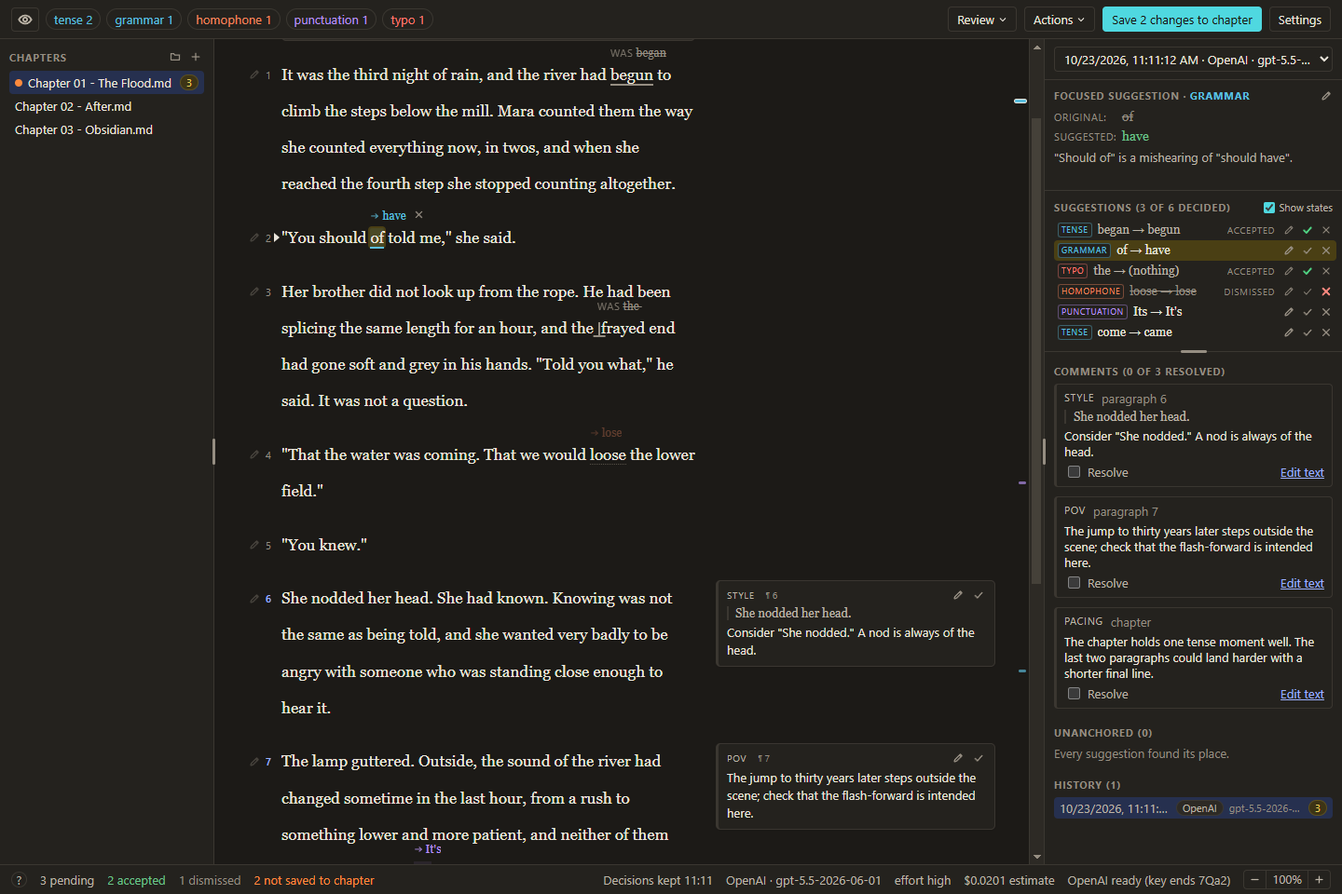
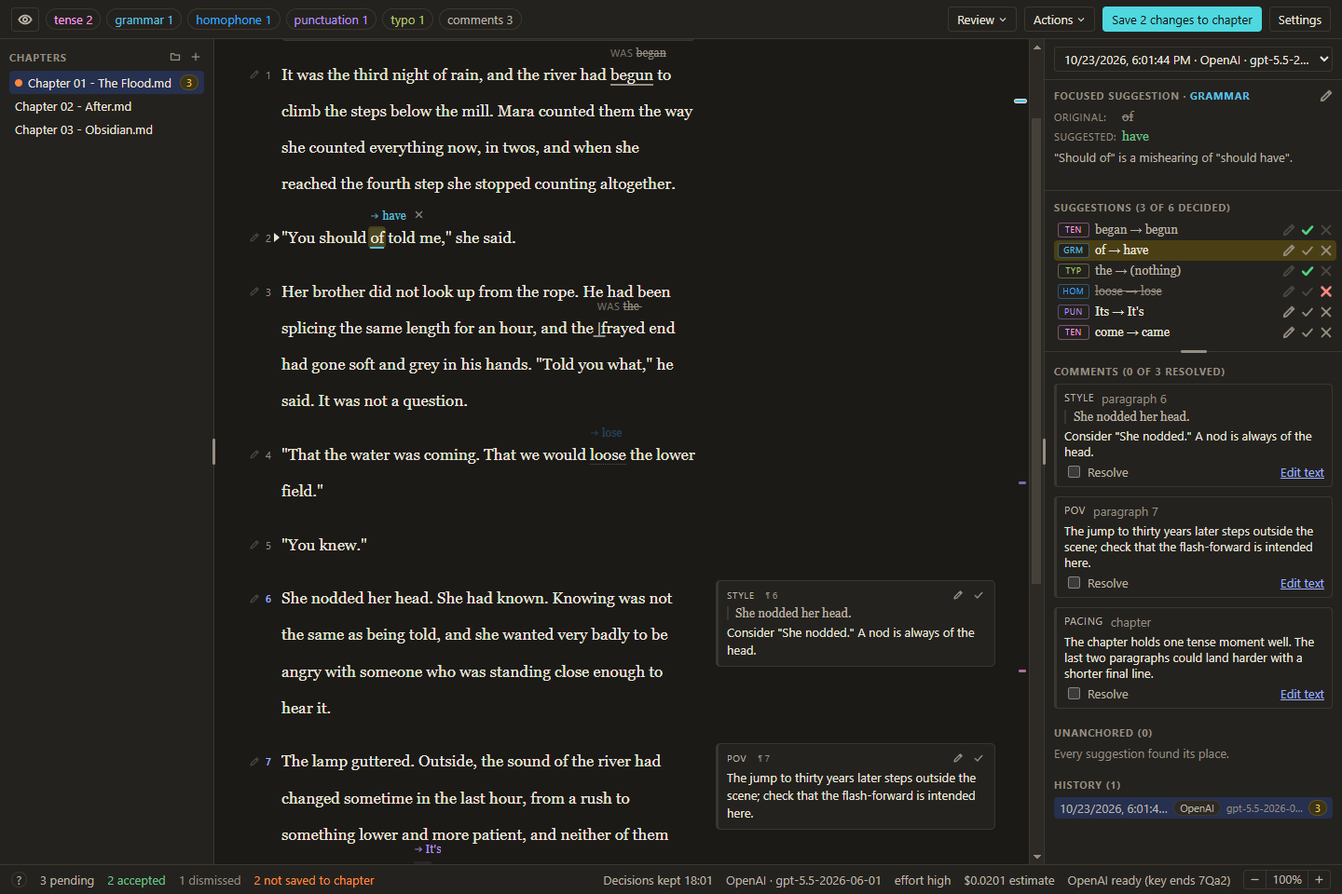
polish.18: the README's review screenshots shot again after polish.13 to polish.17
review.png and review-dark.png, by opensource.13's routine (the mock's
canned review of Chapter 01 in a scratch Novel, 1440 by 960, two accepted
and one dismissed), now show polish.16's category colours, the comments
chip, three-letter tags, the faded row buttons and no Show states or
ACCEPTED and DISMISSED. setup.png is unchanged: Setup shot again matched
it pixel for pixel. The README's captions still hold.

diff --git a/PLAN.md b/PLAN.md
@@ -1114,7 +1114,7 @@ Sitting C (author, about 30 minutes, after M7): `theme.10` (a) approve the conta
 - [x] `polish.15` **The (?) at the far right of every Settings row** (author, 2026-10-23: "can you put the (?) hover things all aligned on the far right? It feels a bit inconsistent that they are all at different horizontal placements on the left"). Each (?) (`HelpTip`, `polish.4`) leaves the row's name and goes to a column of its own at the far right of the row, a last column of `.modal__row` after the buttons, so the eight stand in one vertical line at the right edge of the dialog's box; a row without one (Appearance) keeps the cell, so the columns line up; the (?) keeps its accessible name, "More about <topic>", the row's control keeps its `aria-describedby` on the card, and the tab order follows the markup, so the (?) comes after its row's controls. The card opens below the (?) with its right edge under the (?)'s right edge (an `end` alignment in `placeTooltip` beside `start`, clamped inside the window as today), above it when there is no room below, and stays hidden while the box has scrolled the (?) under the head or the foot. Verify: screenshots in both themes of the dialog at its usual width and in the narrow window where its rows fold (`polish.4`), the eight in one column with their cards open at the right; the keyboard walk; the render tests pin the column and the alignment. CHANGELOG Changed line. (done 2026-10-23; section 7's Settings dialog, which has a new **The (?) column** passage, the card's `end`, the box's height and the key row without its (?) after "(experimental)", 6.5's Finding them and a sentence in C.100's (?) item; 11.3 says nothing of where the (?) stands, so it is unchanged. Each (?) is `HelpTip`'s own cell, `.modal__help`, the fourth and last of every Settings row (`.modal--settings .modal__row`, `150px minmax(0, 1fr) auto 18px`; the other dialogs' rows keep their three columns), after the buttons; a row's name is its first cell alone, `.modal__name` is gone, and the (?) lost its 6 px margin. `placeTooltip` gained `end`, the card's right edge under the anchor's, clamped inside the window as the others are, and `HelpTip` uses it. The CHANGELOG's Unreleased line for `polish.4` said "a small ? beside a row's name" and now says "on the row", beside the new Changed line. The dialog is 654 CSS px tall at 100%, 3 less: the key row's name no longer carries the (?) on its second line. What differs from the text or reads it: the key's field, the row under the key's, keeps an empty cell too, as a row of its own; the narrow window where the rows fold is the smallest one (900 by 600) at 200%, where the box is 394 CSS px wide and the guidelines file's three buttons already wrapped onto two lines; there the reviews folder's Change and Show in folder now wrap as well, since the new column takes 26 px from each row, and its path, 1 px wide there before, has none now, so nothing that showed is lost; at 100% and 125% nothing wraps, in either window. Tests: `end` in `test/shared/ui.test.ts` beside `start` (the right edges lined up, neither the middle nor the start, the clamp at either edge, above when there is no room below); in `test/renderer/settingsDialog.render.test.ts` (14) each of the ten rows has four cells, its name alone in the first and `.modal__help` last, the eight (?) in their order with Appearance's and the key field's cells empty, and the (?) is its row's last control; `test/renderer/helpTip.test.ts` (8) the placing with `end`, the column's 18 px and the base row's three columns, no margin and no `.modal__name`; the row checks in `openaiMaturity.render.test.ts`, `settingsAccount.render.test.ts` and `guidelines.render.test.ts` follow the new markup. 179 files, 3915 tests passed and 1 skipped (3912 before). 15 mutations, one at a time in the tree and put back, each failed at least one test: `end` placed as `start`, without the anchor's width or unclamped at the left; `HelpTip` placing with `start` or drawing no cell of its own; Claude model's (?) back beside its name; Appearance's or the key field's empty cell gone; the key's (?) before its buttons; the column `auto`, or given to every dialog's rows; the (?)'s margin back; a name wrapped in `.modal__name` again; the (?) without its name; Claude model's select not described by its card. **Window check** in a quiet `dev:clean --no-claude-code --shell-stub` window, never in the foreground, the focus emulated, on a scratch copy of the samples, sized with `SetWindowPos` (`p15/check.mjs`, `p15/shots.mjs` in the session's scratch folder): 42 checks passed. Before the change the eight (?) stood at eight left edges, 458 to 529 CSS px in the default window at 100%; now all eight have one, their right edges on the right edge of the box's content (1003 CSS px there), and every row ends with the cell at that edge, in both windows at 100%, 125% and, in the small one, 200%. In the default window: 26 controls in the accessibility tree, each with a name and a description, the eight (?) still "More about ..." and described by their cards; Tab runs Claude model, its (?), Effort, its (?), Appearance, and so on to Done in 24 stops, each (?) straight after its row's controls, and round to the start, and Shift+Tab goes from the first to Done and from Effort's (?) back to Effort; every (?) reached shows its card under it, or above it near the foot, its right edge within 1 px of the (?)'s and wholly in the window; the card goes when the focus moves on, and Escape from the key's (?) with its card open closes Settings and gives the focus to the toolbar's Settings; in both themes hovering the reviews folder's (?) shows its card under it, right edges lined up, the pointer crosses the gap onto the card without it going, it goes once the pointer leaves both, and a click keeps Settings open. In the 900 by 600 window at 100%, 125% and 200%: no buttons run into the (?) column; every stop of Tab and Shift+Tab is clear of the head and the foot, and every card is placed as above; with the focus on Claude model's or the reviews folder's (?), Page Down hides the card exactly while the (?) is out of the band between the head and the foot, and Page Up, a press at a time, shows it again, placed, while the (?) is back in the band, and at 200% hides it again once the box has scrolled past it. Screenshots, the scratch root shown as `D:\Novel`, in `p15/out-before` and `p15/out-after` (both themes, the default window at 100% and 125%, the small one at 100%, 125% and 200%, scrolled to the top and the end, and after it the cards of Claude model, the guidelines file and the key opened by Tab in each), the folded rows at 200% in both themes, and `p15/out-check`, all looked at. Review fix (2026-10-23): the header comment of `src/shared/ui/settingsDialog.ts` still put the (?) beside the row's name, and so did a comment in `test/renderer/showBackups.test.ts` and C.100's opening paragraph; all three now say it stands at the row's right end. Comments and plan text only, so no CHANGELOG line and no test or window change.)
 - [x] `polish.16` **Category colours told apart on purpose** (author, 2026-10-23: "can we choose colors that are more differentiated on purpose? For example, typo and spelling look almost identical. Grammar and Agreement also look very similar."). Seven tokens serve the thirteen categories today (`.cat-typo` takes `--cat-spelling`, agreement and tense `--cat-grammar`, redundancy and awkward `--cat-word-choice`, formatting `--cat-other`), so the pairs the author names are one colour. Every category gets a token of its own, `--cat-<category>` for all thirteen in both blocks, chosen as one set: hues spread round the wheel, with the categories that are neighbours in meaning (spelling, typo and homophone; grammar, agreement and tense; word-choice, redundancy and awkward; formatting and other) far apart in hue, and the two low-chroma ones (other, formatting) told apart by hue as well as lightness. The chips, the rows' tags, the focused box's category, the underlines and tints in the prose and the hover card all follow through `--cat`, so nothing but the tokens and the `.cat-*` rules need change; You keeps `--accent` and comments their own colour, and both count in the spread. `themeContrast.test.ts`: `CATEGORIES` grows to the thirteen, each at 4.5:1 as text on every surface and 3:1 as a mark in each theme, and a new floor on how far apart any two of the fifteen stand in each theme (a CIELAB difference of at least 15 between any two, and at least 35 between any two of one family named above, measured with the helpers `test/helpers/contrast.ts` has; a floor that cannot be met at 4.5:1 is lowered with the reason recorded here); `themeCss.test.ts`'s pins, `theme.4`'s list of light differences and 11.3 (e) change with the values, and 11.3 (e) records the mapping and why each hue is where it is. A sheet for the author's eye, saved under the session's scratch and sent to him: the chip row with all thirteen, comments and You, and a list with one row per category, in both themes, at 100%, so a colour he dislikes is a one-line change per theme. Verify: those screenshots; the contrast test. CHANGELOG Changed line. (done 2026-10-23; 11.3 (e)'s `polish.16` choices, which give the mapping and why each hue is where it is, its dark values and its sentence on the six tokens `theme.4` deleted, and `theme.4`'s list of light differences. Each of the thirteen categories has `--cat-<category>` in both blocks of `app.css`, in `CHANGE_CATEGORIES`'s order, and each `.cat-*` rule points `--cat` at its own: typo, agreement, tense, redundancy, awkward and formatting no longer borrow, and homophone and other have new values; spelling, grammar, punctuation, word-choice and consistency keep theirs, value for value, as do You and the comments chip. Light: typo `#576909`, homophone `#016dba`, agreement `#aa5106`, tense `#9f3887`, redundancy `#2e756e`, awkward `#c11e59`, formatting `#905f4d`, other `#484e70`; dark, in the same order: `#b6c973`, `#30a9ff`, `#ef8e3e`, `#fe9dee`, `#34b7af`, `#ff78a8`, `#f5b89c`, `#a2a0ba`. Tests: `themeContrast.test.ts`'s `CATEGORIES` is the thirteen tokens, taken from `CHANGE_CATEGORIES`, so each has every pair a category has (246 text pairs, 111 faint ones, 177 and 57 on the selection band, where there were 156, 75, 105 and 33); the new floor (`tooClose`) reads the fifteen colours from the chips' own `.cat-*` rules (`chipToken`) and holds any two at least 15 apart in CIE76 and two of one family at least 35, in both themes; one test holds that each chip reads its own token, You `--accent` and the comments `--ink-soft`, and that `FAMILIES` is the task's four families as written above; another that the floor fails the old colours, each of the eight family pairs (0 apart in both themes) failed as one family's at 35, and other on the comments' grey at 15; and a third that formatting in `--ink`, 32.5 from other in light and 31.4 in dark and at least 17.6 from every other chip, fails the family floor and nothing else (the pin of `FAMILIES`, the family's mark and floor in the second and the whole of the third since the review fix below). `themeCss.test.ts` holds the thirteen tokens in both blocks in that order, each class on its own token with no rule naming two of them, and pins the new values. The least distances: light 21.3 (formatting and the comments) and 41.9 within a family (formatting and other), dark 19.9 (homophone and You) and 40.2 (formatting and other), so no floor was lowered; the new colours come closest to their contrast floors in light formatting, 4.61:1 on `--panel-alt`, dark homophone, 4.60:1 above a selected line in a flashing paragraph, and dark awkward's underline, 3.14:1 under the prose's band on the focus yellow. 179 files, 3919 tests passed and 1 skipped (3915 before). 9 scratch mutations, one at a time in the tree and put back with its hash checked, each failed a test: typo's rule back on spelling's token, typo back in spelling's rule, light awkward in spelling's red, dark other in the comments' grey, light homophone a dark red 27 from spelling (the family floor alone), light typo too light for text (3.41:1), the dark block without tense, You on homophone's token, and light formatting on other's slate. **Window check:** a quiet `dev:clean --no-claude-code` window, never in the foreground, focus emulated, on a scratch copy of the samples whose Chapter 01 review has one suggestion in each category, one of the author's own edits and three comments (`p16/setup.cjs` in the session's scratch folder), the page emulated at 2000 by 900 at 100% so the whole row fits at the chips' largest step: in both themes the 15 chips, the 14 tags and the 13 underlines were painted in their tokens' colours and no other. The set was chosen there: candidate sets laid over the window's own CSS were shot in both themes and looked at (`p16/out`), and four values of the last moved a little by hand, three for headroom over 4.5:1 or 3:1 and light formatting a step further from agreement. The author's sheet, in the session's scratch folder: `p16/polish16-sheet-light.png` and `p16/polish16-sheet-dark.png`, the chips' row with all thirteen, comments and You over the list with one row per category and the YOU row, beside the prose with each category underlined, and `p16/polish16-before-after.png`, the row and the list in both themes before and after. What differs from the text or reads it: which new member of a family took which hue, and why, is in 11.3 (e); a comment of the category other now takes other's colour on its card, where in light it had the comments' grey (11.3 e); the sheet's window is wider than the default, so the row is whole at its largest step. Review fix (2026-10-23): as committed, no test showed the family floor at work. With `FAMILIES` empty, or `FAMILY_APART` at 15, or tense out of its family, all 72 theme tests still passed, because the old colours are 0 apart and so fail the floor of 15 as well, and the old-colours test cut each line at its colon, dropping "(one family)"; the families test held only that each name was a category and none appeared twice. Now `floorsBroken` drops only the two colours and the distance measured, so the old-colours test expects "spelling and typo: at least 35 (one family)" and its seven fellows, and "other and comments: at least 15"; a new test paints formatting in `--ink` and expects the one line "formatting and other: at least 35 (one family)" in each theme; and `FAMILIES` is pinned to the task's four families. The tests sentence above was corrected to match. Checked by mutation, each put back with its hash checked: `FAMILIES` empty failed three tests, `FAMILY_APART` at 15 two, tense out of its family two, homophone out of its family one, and `tooClose` ignoring the families two, where at the commit the first three failed none. C.109's sentence on the two grey chips now says it held until `polish.16`. The sheet's three images were sent to the author with this fix. 179 files, 3920 tests passed and 1 skipped (3919 before).)
 - [x] `polish.17` **Show states goes** (author, 2026-10-23: "'Show States' button can go. With the new styles, it is unneeded."). The checkbox beside the Suggestions heading goes, and with it the ACCEPTED and DISMISSED words on the rows: the ✓ and the ✕ of `polish.12` and `polish.14` say it. `showRowStates` leaves `Settings`, `DEFAULT_SETTINGS` and `normalizeSettings` (a settings.json that still holds the key is read as any file with an unknown key is: check that `normalizeSettings` drops it and the next write leaves it out); `state/rowStates.ts`, `SHOW_STATES_LABEL`, `SHOW_STATES_TITLE`, the legend's words for the box, the focus rule in `navigate.ts` that kept the box's focus and `splitHandle.ts`'s measure of the heading's line go or change with it; the heading keeps "Suggestions (12 of 19 decided)", and `rowLabel` keeps the decision in the row's name for screen readers. Section 7 (the Suggestions list, its Layout and the legend line), 11.3 (d) and C.108 record the removal. The CHANGELOG's Unreleased line that added Show states is edited rather than a Removed line added, since it never shipped. Verify: the render tests; screenshots in both themes of the list with decided rows, in a wide and a narrow panel, the heading's line no taller in the narrow one. (done 2026-10-23; section 7's Layout, Suggestions list and legend lines, 11.3 (d), C.49's Short windows note, C.108 (its Show states, Read as the category, box and narrow-row items, and a last item, Show states gone, which records the removal) and a note on C.110's narrow rows. The box, the words and the setting are gone: `showRowStates` from `Settings`, `DEFAULT_SETTINGS` and `normalizeSettings`; `state/rowStates.ts` and `flushRowStatesWrites` in `PAGE_WRITES`; `SHOW_STATES_LABEL`, `SHOW_STATES_TITLE`, `STATUS_MARK` and the row's `.row__status`; `.side__list-head` and `.side__states`, so the heading is the list's first child again and `measureSplit` measures the `h3`, as before `polish.12`; the container query that left the word out of a narrow panel and `.side`'s `container`, so the colour guard fails any container again (C.49); the legend's words for the box. Kept: the heading's count and `rowLabel`'s decision. What differs from the text or reads it: the focus rule in `navigate.ts` (`isTypingField`: a checkbox is not typing) stays, its comment rewritten, since it was never the box's alone, and a comment's Resolve reached with Tab still needs it; the CHANGELOG line that added Show states now says the rows no longer write ACCEPTED or DISMISSED, as the words had been on decided rows from the first builds, and `polish.14`'s line loses its sentence on room for them; README's step 5 no longer names the box. Tests: `test/shared/settings.test.ts` (the key dropped whatever its value, the rest read as ever), `test/main/settingsStore.test.ts` (a file holding `showRowStates: false` is read without it and the next save leaves it out, keeping the rest), `test/renderer/suggestionRows.render.test.ts` (a decided row shows its tag and change as a pending one does, no status word, its buttons and its name saying the decision, no box and no checkbox, settings read from a file holding the key render the same; the heading the list's first child, alone), `test/renderer/suggestionRows.test.ts` (no `.row__status`, `.side__list-head` or `.side__states` rule, the heading's padding, `measureSplit` on the `h3`, the narrow-row sums for the change and the tag alone, no container query, no file under `src` naming the box, the setting, its writer or the status word, the legend's item), and the source checks in `split.test.ts`, `closeGuard.test.ts`, `keyboard.test.ts`, `themeCss.test.ts` and `sidePanelRows.render.test.ts` brought up to date; 179 files, 3912 tests passed and 1 skipped (3911 before). 12 scratch mutations, one at a time in the tree and put back, each failed a test: `normalizeSettings` keeping the key, the save writing the file's unknown keys back, a decided row writing its status as `.row__status` or under another class, the heading back in a line with a box, `measureSplit` on `.side__list-head`, the panel a container again, a container query back, the heading's padding lost, the legend naming Show states, the row's name without its decision, and a close waiting for another writer. **Window check** in a quiet `dev:clean --no-claude-code` window, never in the foreground, the focus emulated (`p17/drive.mjs` in the session's scratch folder), on a scratch copy of the samples whose Chapter 01 review has 22 rows in thirteen categories, 11 pending, 8 accepted (two of them the author's edits) and 3 dismissed, and a settings.json holding `showRowStates: false`: 54 checks passed. The page's settings had no such key; in both themes, in the default window at 100% (the page emulated at 1424 by 900, the panel 319 CSS px inside) and the smallest (884 by 561, 235 inside): no box, no status word, no checkbox in the list and no "Show states" on the page; every row's main button the tag and the change alone, no row writing accepted or dismissed in any case; the heading "Suggestions (11 of 22 decided)", the list's first child; each decided row's name ending in its decision and its ✓ or ✕ on; every change one width, a decided row's as a pending row's (177 CSS px wide, 93 narrow), in one column, every tag whole, short of the pencil; the heading's line 15 CSS px in both panels, no taller in the narrow one (31 there under `polish.12`), and `measureSplit`'s list chrome its 10 and 6 px of padding, the 15 px line and its 6 px margin, 37; the legend's item ending on the heading's count with no word of the box. At 200% in the default window (199 inside) no status word, every change 57 px and every tag whole, and the heading, alone, on two of its lines: its own words, "SUGGESTIONS (11 OF 22 DECIDED)", do not fit 199 px, which comes of `polish.12`'s longer count and is left as it is. After the zoom steps settings.json had been written again without `showRowStates` and with everything else it held. Screenshots of the page and the list (2x) in each theme and panel, the 200% page and the legend in both themes, in `p17/out/drive`, looked at. Review fix (2026-10-23), tests only: in `suggestionRows.render.test.ts` the box test called `storeWith` twice for `settings`, and the helper kept the value it found the second time, so the store was left with the first test value, default settings in place of null, for every test after it in the file; and it put the key through `normalizeSettings`, which drops it, so the panel never saw a stale key and the render matched by construction. `storeWith` now keeps the first value it finds for each key, as the helpers in `commentsChip`, `marks` and `toolbarMenu` already did, and the file's `afterEach` checks that every key of the store is back as the file found it, failing the test that left one changed and putting it back for the rest; the box test sets the settings as they are with `showRowStates: true` and then `false` past `normalizeSettings`, checks the key is in the store, and compares with the render under plain default settings. 179 files, 3912 tests passed and 1 skipped, as before. Checked by mutation, each put back: with the old helper the check failed the box test and the four after it, all left with `settings` changed, until it put the key back, and then the box test alone; the panel reading `showRowStates` from the store and writing it on the list failed the new box test, where the commit's version of the file passed all 14 with it.)
-- [ ] `polish.18` **The README's screenshots after polish.15 to polish.17** (added with them, 2026-10-23). `docs/images/review.png` and `review-dark.png` show the category chips and the rows' tags in the colours `polish.16` replaces, the ACCEPTED and DISMISSED words and the Show states box `polish.17` removes; shoot them again by `opensource.13`'s routine (the recorded window sizes, the scratch manuscript and the mock), and `setup.png` only if the Setup screen changed. Check each image by eye against the running window before committing, and that `README.md`'s captions still describe them.
+- [x] `polish.18` **The README's screenshots after polish.15 to polish.17** (added with them, 2026-10-23). `docs/images/review.png` and `review-dark.png` show the category chips and the rows' tags in the colours `polish.16` replaces, the ACCEPTED and DISMISSED words and the Show states box `polish.17` removes; shoot them again by `opensource.13`'s routine (the recorded window sizes, the scratch manuscript and the mock), and `setup.png` only if the Setup screen changed. Check each image by eye against the running window before committing, and that `README.md`'s captions still describe them. (done 2026-10-23 on c20480e, with no change to the app. `review.png` and `review-dark.png` are new; `setup.png` is as it was, since Setup shot again by the same routine matched it pixel for pixel. The old images were shot before `polish.13` and `polish.14` as well, so the new ones catch up with those too; `polish.15`'s Settings rows are in none of the three. **Run**, as `opensource.13`'s: the OpenAI mock (`node test/helpers/mockOpenAi.ts --port 4599`) and a quiet `dev:clean --no-claude-code --shell-stub` window, started by the scratch launcher that passes `--quiet` and keeps the window at the bottom, never in front, on a scratch userData whose `settings.json` named a scratch copy of `samples/manuscript` in a folder named Novel, with `onboardingDone`, the OpenAI provider, `checkForUpdates` off and the Save to chapter note put away; `MANUSCRIPT_REVIEW_OPENAI_BASE_URL` named the mock and `OPENAI_API_KEY` held a made-up key ending 7Qa2. Over DevTools (`p18/drive.mjs` in the session's scratch folder, `opensource.13`'s driver, which now finds the row of → have by its change, as a row's name ends in its decision): Chapter 01 from the list, Review, With AI and Start review (gpt-5.5-2026-06-01, effort high; the mock answered three model lists and one review, "OpenAI suggested 6 changes and 3 comments"); began → begun and the → (nothing) accepted with a click in the prose and loose → lose dismissed with its x, as before; the review's card closed and of → have focused from its row; the prose scrolled 116 px; focus emulated, the pointer parked at the top left, the focus blurred, reduced motion. **Shots**: `Emulation.setDeviceMetricsOverride` at 1440 by 960, scale 1, and `prefers-color-scheme` through `Emulation.setEmulatedMedia`, checked with `matchMedia`; Setup from Settings' Setup button, in light, clipped at 866 px. **Privacy**: the title, the visible text and every attribute and field value searched for the Windows user name, the scratch path, "AppData", "scratchpad", "@", the mock key's prefix and the profile folder, with the same result as `opensource.13`'s in all three (none in the title or the visible text; the review file's path only in the review selector's option value and the History item's tooltip, neither drawn, and the rest attributes of the development server's script and style tags); each PNG holds only IHDR, IDAT and IEND. **Against the old images**, pixel by pixel and then by eye, both reviews differ in these places only: the tense, homophone and typo chips in `polish.16`'s colours, where grammar and punctuation keep theirs, and a comments 3 chip after typo (`polish.13`); the list's heading line without Show states (`polish.17`); the six rows with three-letter tags of one width (TEN, GRM, TYP, HOM, PUN, TEN) in their categories' colours, every change starting at one x, no ACCEPTED or DISMISSED, bigger icons, and the two accepted rows' and the dismissed row's other buttons faded (`polish.14`); the focused suggestion's pencil, bigger with them; the → lose ghost above loose in homophone's blue, where it was red; the mark of come → came in the prose's scrollbar in tense's pink, where it was blue; the margin cards' pencils, a few pixels at the joint (one path since `polish.14`'s review fix); and the times in the review selector, History and the status bar ("Decisions kept 18:01"). The prose, its underlines, the margin cards' words, the comments, the chapter list and the toolbar's buttons are as they were. **Against the running window**: read back over DevTools in both themes, every chip's and tag's colour was its own `--cat-*` token's (light tense rgb(159, 56, 135), homophone rgb(1, 109, 186), typo rgb(87, 105, 9); dark rgb(254, 157, 238), rgb(48, 169, 255) and rgb(182, 201, 115)) and the comments chip's `--ink-soft`; every tag 34 CSS px wide with its name as its tooltip; no checkbox in the list, no "Show states" on the page, no `.row__status` and no row writing accepted or dismissed; the heading "Suggestions (3 of 6 decided)". A second capture of each theme matched the first pixel for pixel, and the window at its own size (1424 by 901 inside, light), captured without the emulation and looked at, showed the same state. **README**: `review.png`'s alt text still holds (suggestions floating above the words, two accepted and one dismissed, comments in the margin, the category chips at the left of the toolbar, each row's category tag, a green tick on the two accepted and a red x on the dismissed one), and so do the dark image's and Setup's; step 5 already names the three-letter tags and the faded buttons, and step 7 the comments chip the images now show, so README.md is unchanged. C.110's last item no longer says the screenshots show `polish.12`'s tags. Images and plan text only, so no CHANGELOG line. Checks: typecheck, lint, format:check, branding:check, check:public (444 files); 179 files, 3,920 tests passed, 1 skipped.)
 - [ ] `release.13` **Cut 1.0.0 and prove the updater** per 11.4, including, first, the trial the `setup.13` review left (its finding 6) if the author has a Claude Console account: `claude auth login --console` in his own terminal, taking the sign-in without an API key if it offers one (record whether it does), then what `claude auth status --json` gives in the fields the app keeps (11.3 f) and what Setup, its Test the connection note and the status bar say; it signs Claude Code out of his claude.ai login, so `claude auth logout` follows and `setup.14`'s sign-in brings that login back. If the check misreads it, the fix lands before the tag, and the README offers `claude auth login --console` again only if Setup describes it rightly. Then `setup.14` (the author's first real sign-in through the Setup screen, CLI output recorded), `brand.9` (VersionInfo and icon checks; after publishing, the author's own install carries over settings, reviews, zoom and the OpenAI key, the Start-menu pin and running window share one taskbar button, Apps shows publisher Michael Bradet-Legris; then he deletes `%LOCALAPPDATA%\ai-grammar-checker-updater`), `hardening.13` (packaged run from `C:\tmp\Jöse O'Brien [x]\`; author drag, crash dialog, quit-during-review; a log search after a real review finds no chapter sentence, email or key), `theme.10` (f) (no light flash on a dark launch), and `polish.3`'s Obsidian check (added by the `polish.3` review, 2026-10-22, since no open task carried it once `theme.10` was ticked): the author makes Obsidian the app Windows opens `.md` files with by the README's steps under The guidelines file, noting where Windows' Open with dialog differs from them, then presses Open on the guidelines row in Settings, and records in C.101 whether `GUIDELINES.md` opens in Obsidian, in its vault; a fix it calls for, to the app or to the README's steps, lands before the tag with its CHANGELOG line.
 - [x] `theme.9` **Theme wrap-up.** (done 2026-10-21, except the sitting C answers, which the author has not given yet: they are recorded as pending in the sitting C paragraph under M7, which says where each goes once he gives it, the open task `theme.10` in M11 carries them to the cut (added by the review), and nothing was written in their place. CLAUDE.md's Stack section has a paragraph on colour tokens: every colour a token in `app.css`, the light block and the dark one inside `@media (prefers-color-scheme: dark)` with the fonts in light only, the Appearance setting reaching the media query through `nativeTheme.themeSource` (C.50) and `WINDOW_BACKGROUND` repeating each `--bg`, `themeContrast.test.ts` and its 4.5:1 and 3:1 tiers, `themeCss.test.ts` as the colour guard and the pin of every value, and the focus ring, selection and scrollbars left to the browser. Each statement in it was checked against `app.css`, `src/main/theme.ts`, `src/shared/ui/theme.ts`, `test/helpers/themeTokens.ts` and the theme tests. CHANGELOG: the Unreleased section was read against each M5 task and `theme.4`'s list of light differences. Dark mode and the Appearance setting (Added), the light theme's darker greys and brown, its links, form controls and key field (Changed), `theme.8`'s hairline (Changed), and `theme.1`'s and `panel.1`'s scrolling fixes and the legend `theme.3` found (Fixed) had lines; `theme.2`, `theme.3` and `theme.4` changed nothing else a user sees. Two light changes of `theme.5` had none, checkboxes and radio buttons ticked in `--accent-fill` and the active find match in the frontmatter in `--ink` where it was `--ink-faint`, and both went into the light theme's Changed line. No code changed. Gates: typecheck, lint, format:check, branding:check, check:public (415 files); 162 files, 3,598 tests passed, 1 skipped. Review fixes the same day: (1) with this task ticked, no open task carried sitting C, so `theme.10` is now an open task in M11 before `release.13`, and 11.4 step 1 asks for sitting C held and its answers recorded. (2) The paragraph said focus rings are the browser's own, but three rules set the focus: the split handle's 2 px `--accent` ring inside its band (`ui.6`), the paragraph box's `--accent-fill` glow in place of a ring, and a dialog's box with none (`ui.1`). CLAUDE.md now names the three, and so does 11.3 (e)'s focus-ring bullet, written by `theme.8` before two of them. In a quiet dev window on a scratch copy of the samples, with focus emulation on and an element of each class added to the page and focused, in light and in dark: the handle had `outline: 2px solid` in `--accent` (rgb(59, 91, 219) and rgb(157, 177, 255)) at offset -2px, the paragraph box no outline and a 3 px glow of `--accent-fill` at 24%, a dialog's box no outline, and a plain button `outline: auto`. (3) The colour guard took any one `var()` as a scroller's opaque background, so `.center` on `--hover-overlay` passed (seen: 26 of 26). `themeCss.test.ts` now follows the token through both blocks (`resolveToken`, `parseColour`) and fails one that is not a colour with alpha 1 in either theme, and a new test shows that it fails `--hover-overlay`, `--backdrop`, `--tint-pending`, an undefined token, `transparent`, a `color-mix()` and a token translucent in dark only. With `.center` on `--hover-overlay`, `--backdrop` or `--tint-pending` it failed, naming `.center` and why. No CHANGELOG line, as nothing a user sees changed. Gates: typecheck, lint, format:check, branding:check, check:public (415 files); 162 files, 3,599 tests passed, 1 skipped.) CLAUDE.md note on colour tokens; CHANGELOG lines; record the sitting C answers.
 - [ ] `files.13` **The friend's first chapter** (after publishing). Under Appendix D's friend defaults this is only: the author sends the release link, and the friend messages him on Discord or opens a GitHub issue if something goes wrong. The fuller trial, if the author ever wants it: set the manuscript folder to his chapters folder, fill and pin GUIDELINES.md in Settings, copy one chapter to a trial folder outside the vault, review, decide, edit, Save, compare (`fc.exe /n original.md trial.md` or a screen share with `git diff --no-index --word-diff`), switch back, check the style sheet is still in use, watch sync for two minutes. Record the outcome and any open `files.17` answers.
@@ -2577,7 +2577,7 @@ The author, after `polish.12`: "For the edit, check, and x icons, can you make t
 - **What fades.** The ink alone, `--ink-faint` at `--row-fade` (11.3 e), not the button's opacity, which would have faded the focus ring and the hover's `--border` with it. Under the pointer or with the keyboard's focus a faded button is shown in full: the task asked for the hover; the focus is added because a keyboard user who tabs onto a 1.5:1 button would not see what has the focus. The stroke is the icon's own, where `polish.12` thinned it: thin and faint together left a line that was hard to see at all at 100%. One share in both themes: dark comes out a little plainer (1.54 to 1.74:1 against 1.43 to 1.48), and both read as done beside a pending row in the window. Show states and the status word are as they were.
 - **Which icons grew.** Every `.row__act`: a row's pencil, ✓ and ✕, and the focused suggestion's pencil, which is drawn as a row button and would otherwise have been the one small pencil in the panel. The margin cards' and the prose's ✕ are other buttons and are as they were. The legend's tick follows the rows.
 - **The narrow rows.** `polish.12`'s order holds (the change down to its floor, then the status word, then the tag), and so does its rule that no row writes the word where it would show fewer than two letters; but the container query that applies it was computed from the widest tag, WORD-CHOICE's 77 px, and with every tag 34 px the same sum gives 203 CSS px, not 246. At 200% in the default window (199) the word is still left out, every change keeps 57 px and no tag is cut, where 10 tags ended in "…". In the smallest window (235) every decided row now writes ACCEPTED (51 px) or DISMISSED (55 px) whole, its change at the floor or just above (32 to 36 px), as the 1030 to 1150 px windows did under `polish.12`; a pending row there keeps 93 px of its change. Were the author to prefer the change to the word in that window, the query going back to 246 px is the whole of it. (`polish.17` took the word and the query away, C.108: every row there now keeps 93 px of its change.)
-- **Left for the author.** CLAUDE.md says the scrollbar's thumb "is the one mark under 3:1"; since this task the faded row buttons are a second, which `themeContrast.test.ts` names. An agent does not edit CLAUDE.md, so its line is the author's to bring up to date. The README's screenshots (`opensource.13`) show `polish.12`'s long tags and thin fade; its text says three-letter tags.
+- **Left for the author.** CLAUDE.md says the scrollbar's thumb "is the one mark under 3:1"; since this task the faded row buttons are a second, which `themeContrast.test.ts` names. An agent does not edit CLAUDE.md, so its line is the author's to bring up to date. The README's screenshots (`opensource.13`) showed `polish.12`'s long tags and thin fade, while its text said three-letter tags, until `polish.18` shot them again.
 - **One path per icon** (review fix). The fade is a translucent ink, and the browser paints each `<path>` of an icon on its own, so where two overlap the ink is laid twice, about 58% where it should be 35%. `IconPencil` was two paths, its outline and the ferrule's line, whose ends sit on the outline: every faded pencil, on each accepted and dismissed row, had two darker spots there, measured in the window at 1.90:1 on the light panel and 2.43 on the dark one (1.97 and 2.57 shot at 3x), where its ✕ and ✓ are 1.47 and 1.74; 2.43 is outside the 1.35 to 1.9 that `themeContrast.test.ts` holds the fade to. `polish.12`'s opaque grey hid it. The pencil is now one path with two subpaths, whose stroke is painted once, as the ✕'s crossing already was: faded, it is 1.47 and 1.74 as the others are. Everywhere else it is drawn in an opaque ink or faded as a whole by the button's `opacity` (a pending row, the focused suggestion, the comment cards, the paragraph's pencil, the hover card), and there it looks the same: on a pending row 7 pixels at the joints differ at 1x, by at most 18 of 255, and nothing else in the row's buttons does. Fading the svg with `opacity` in place of the ink would also have painted each icon as one, but the fade's ratios are modelled and tested as `--row-fade` of `--ink-faint` (11.3 e), and that model and its tests would have had to change. `suggestionRows.render.test.ts` holds every row button's icon to one `<path>` and no other shape.
 
 ## Appendix D: release 1.0 answers
